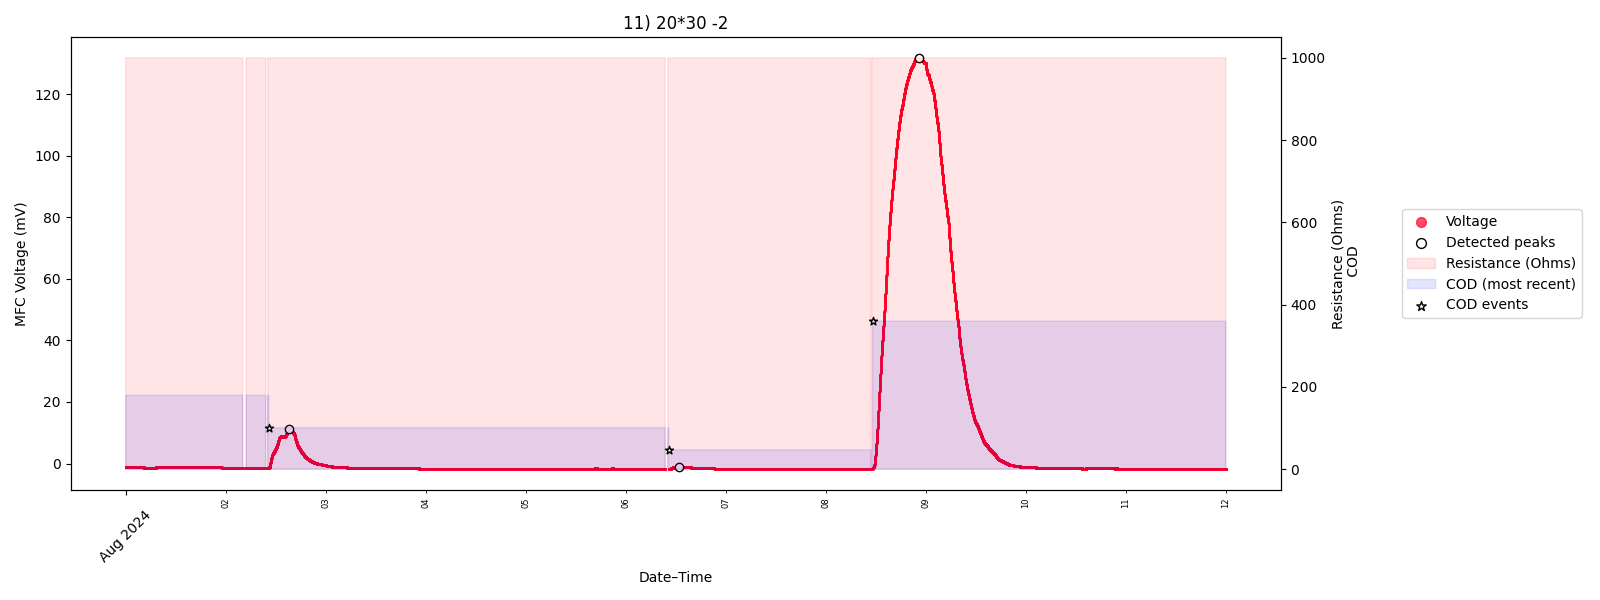
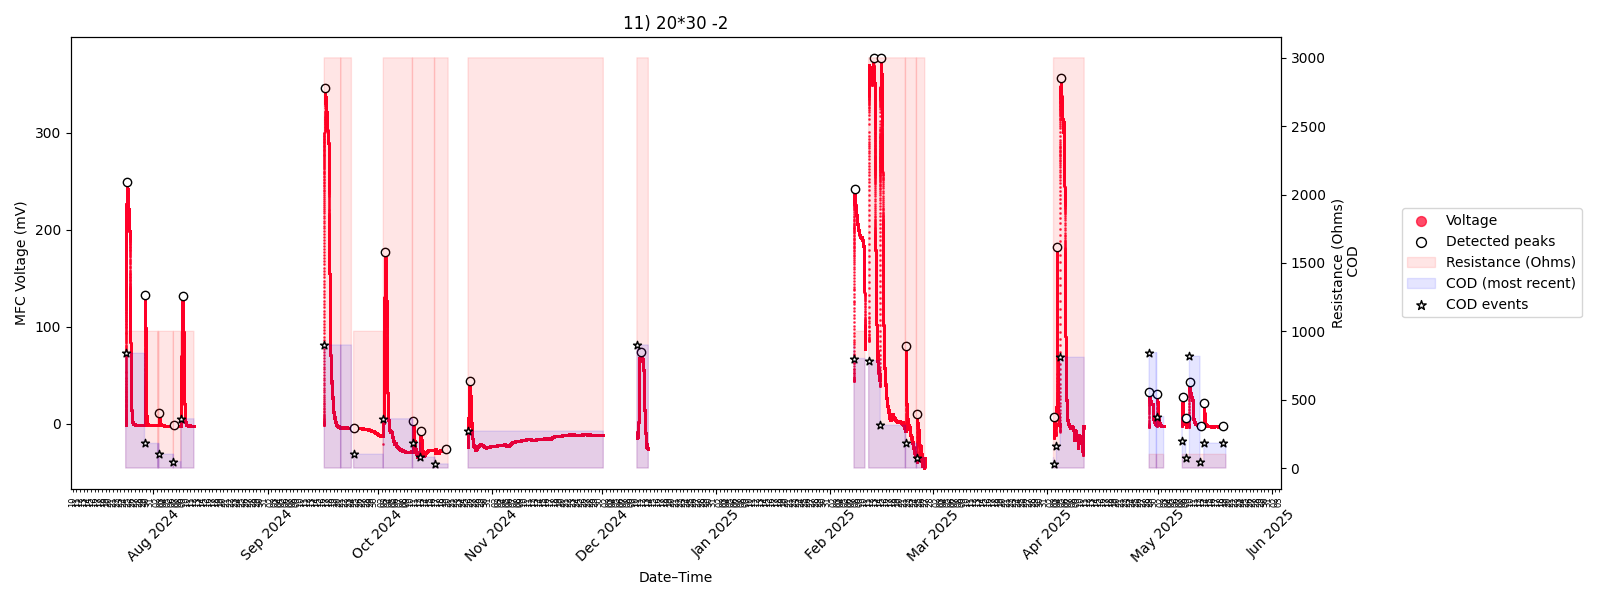
min, max, mean spike delay cmputed and plotted for each mfc

diff --git a/analyse_data.py b/analyse_data.py
@@ -10,7 +10,7 @@ def main():
     all_data = all_data.set_index("datetime", drop=False).sort_index()
 
     # Select date range to work on 
-    all_data = all_data.loc["2024-08-01":"2024-08-28 23:59:59"]
+    # all_data = all_data.loc["2024-08-01":"2024-08-28 23:59:59"]
 
     # Get names of columns containing MFC voltage data
     mfc_column_names = extract_mfc_column_names(all_data)
@@ -46,8 +46,7 @@ def main():
 
             if i < len(cod_events_idx) - 1:
                 end = cod_events_idx[i+1]
-                # window = data['Voltage'].loc[start:end].iloc[:-1]
-                # window = data['Voltage'].iloc[start:end]
+                # Get voltage data exclusive of stopping value
                 window = data.loc[(data.index >= start) & (data.index < end), 'Voltage']
 
             # Last segment of data has no stopping value
@@ -58,10 +57,12 @@ def main():
                 # Find maximum voltage recorded in this window (voltage peak)
                 if window.notna().any():
                     peak_idx = window.idxmax()
-                    print('Voltage peak:', peak_idx, data['Voltage'].loc[peak_idx])
+                    peak_val = data['Voltage'].loc[peak_idx]
                 else:
                     peak_idx = None
-                    print('Voltage peak:', peak_idx)
+                    peak_val = None
+                    
+                # print('Voltage peak:', peak_idx, peak_val)
 
                 # Store index of voltage peak
                 voltage_peaks_idx.append(peak_idx)
@@ -71,49 +72,60 @@ def main():
                   ["Voltage"], 
                   title=d, 
                   voltage_peaks=voltage_peaks_idx,
-                  show_days=True)
+                  show_days=True,
+                  show_plot=False
+                  )
 
-        # # Compute and store delay between COD event and voltage spike 
-        # spike_delay_days = [(t2 - t1).total_seconds() / (60 * 60 * 24) for t1, t2 in zip(cod_events_time, peak_times)]
-        # spike_delay_days = [round(i, 5) for i in spike_delay_days]
-        # mfc_analysis["Spike delay (days)"][d] = spike_delay_days
-        # df = pd.DataFrame(dict([(k, pd.Series(v)) for k, v in mfc_analysis["Spike delay (days)"].items()]))
-        # df.to_excel("Spike_delay_days.xlsx", index=False)
+        # Compute and store delay between COD event and voltage spike
+        spike_delay_days = []
+        for c, v in zip(cod_events_idx, voltage_peaks_idx):
+            if v:
+                delay = (v - c).total_seconds() / (60 * 60 * 24)
+            else:
+                delay = np.nan
+            spike_delay_days.append(delay)
+        # Round to 6 d.p.
+        spike_delay_days = [round(i, 6) for i in spike_delay_days]
+        mfc_analysis["Spike delay (days)"][d] = spike_delay_days
 
-
-
-    #     # Plot seperate data for each MFC
-    #     plot_data(data, 
-    #               ["Power"], 
-    #               title=d)
-        
-
-    # # for key, value in mfc_analysis["Spike delay (days)"].items():
-    # #     print(key, '\t', value)
-    # #     if key=='8) 10*10 -2':
-    # #         continue
-    # #     if '10*10' in key:
-    # #         c = 'red'
-    # #         if 'AC' in key:
-    # #             c = 'orange'
-    # #     else:
-    # #         c = 'blue'
-    # #         if 'AC' in key:
-    # #             c = 'green'
-    # #     plt.plot(value, label=key, color=c, marker='o', linestyle='none')
-    # # plt.xlabel('spike number')
-    # # plt.ylabel('spike delay(days)')
-    # # plt.ylim(0, 10)
-    # # plt.legend()
-    # # plt.show()
+    # Save spike delay analysis to excel file 
+    df = pd.DataFrame(dict([(k, pd.Series(v)) for k, v in mfc_analysis["Spike delay (days)"].items()]))  
+    df.to_excel("Spike_delay_days.xlsx", index=False)
+    print(df)
 
     
+    # Group spike delay data by MFC type and compute min, max, mean
+    mfc_groups = {  '10*10 AC':{}, 
+                    '20*30 AC':{}, 
+                    '10*10':{}, 
+                    '20*30':{}
+                    }
+    
+    for i, mfc_type in zip(range(0, df.shape[1], 3), mfc_groups):
 
-    # # Convert to DataFrame (each list becomes a column)
-    # df = pd.DataFrame(dict([(k, pd.Series(v)) for k, v in mfc_analysis["Spike delay (days)"].items()]))
+        # Take columns in groups of 3
+        group = df.iloc[:, i:i+3]
 
-    # # Save to Excel
-    # df.to_excel("Spike_delay_days.xlsx", index=False)
+        mfc_groups[mfc_type]['min'] = group.min(axis=1)
+        mfc_groups[mfc_type]['max'] = group.max(axis=1)
+        mfc_groups[mfc_type]['mean'] = group.mean(axis=1)
+
+
+        x = range(len(mfc_groups[mfc_type]['mean']))   # or use datetime index if you have one
+
+        plt.plot(x, mfc_groups[mfc_type]['mean'], label=mfc_type)
+
+        # shaded area between min and max
+        plt.fill_between(x, mfc_groups[mfc_type]['min'], mfc_groups[mfc_type]['max'], alpha=0.3)
+
+    print(mfc_groups)
+    plt.legend()
+    plt.xticks(x)  # only integers
+    plt.xlabel('COD event index')
+    plt.ylabel('Delay from COD event to voltage peak (days)')
+    plt.savefig("Spike_delay_days.png")
+    plt.show()
+
 
 if __name__ == "__main__":
     main()
